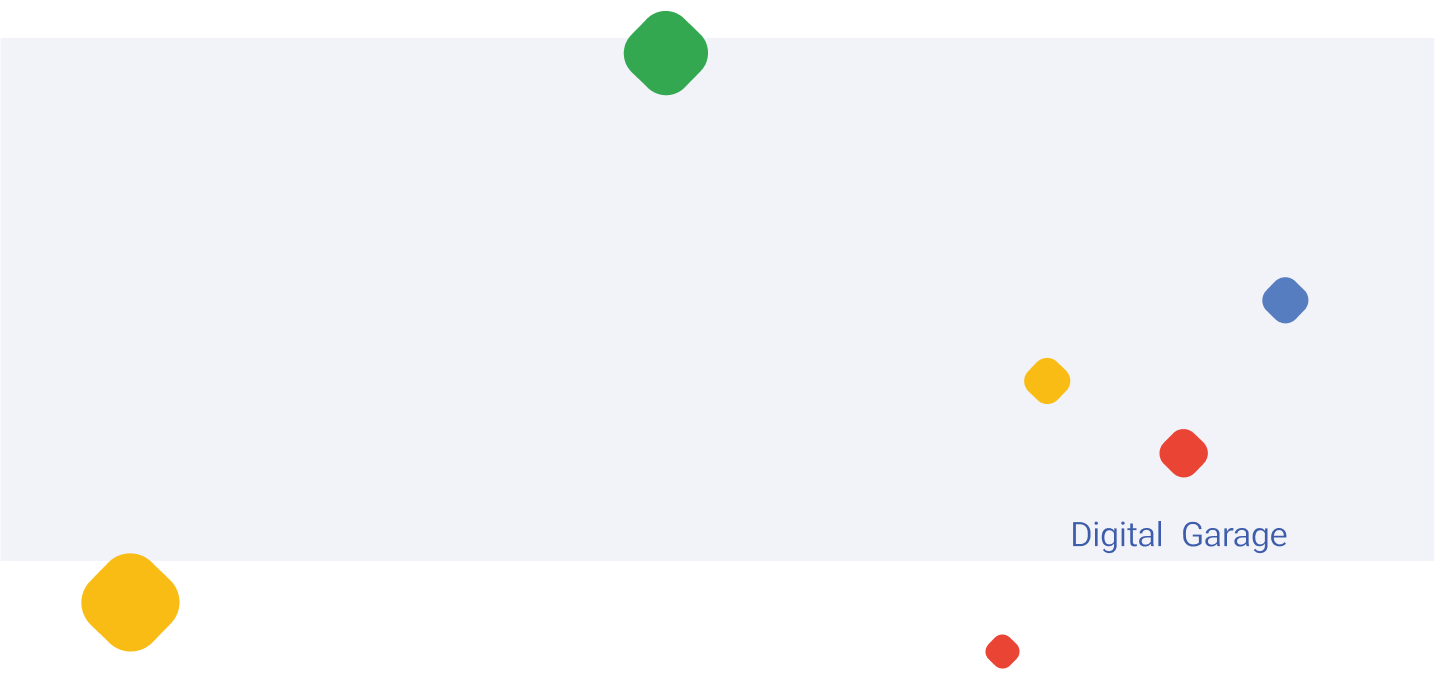
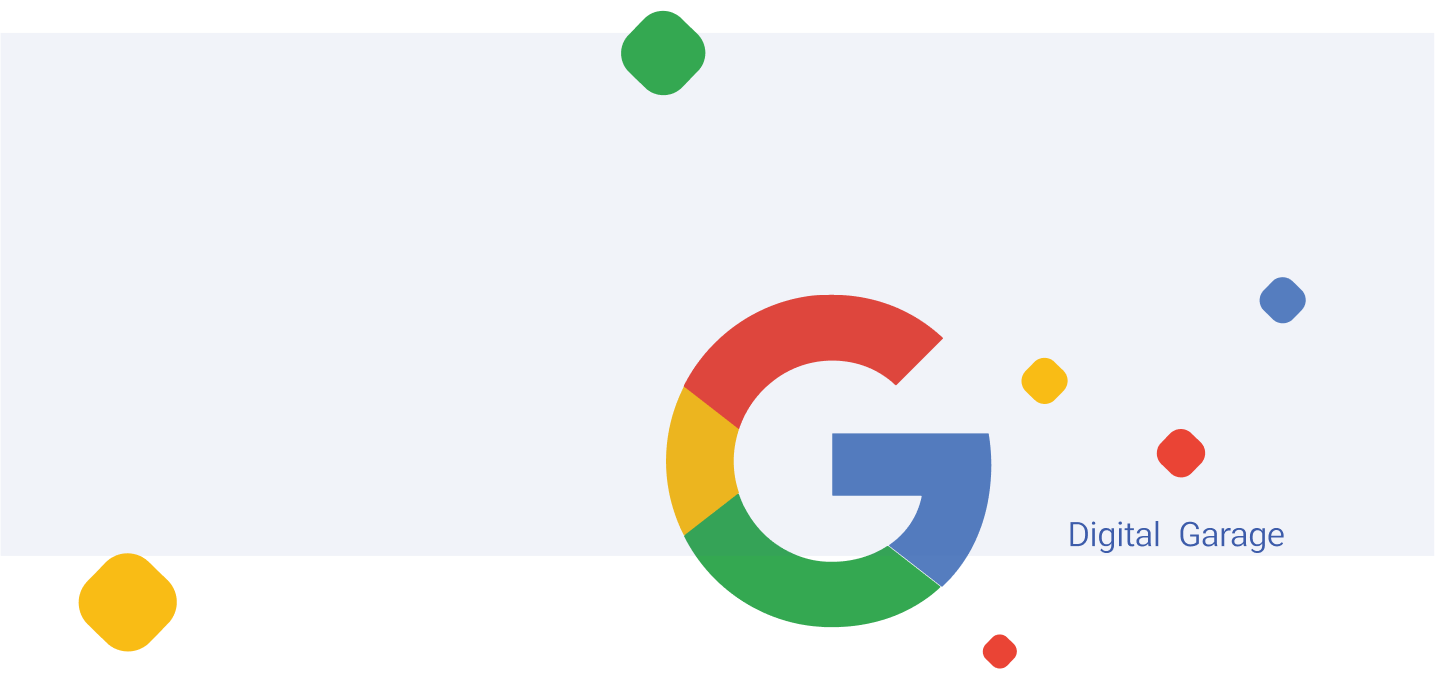
Section 3 n c

diff --git a/src/App.vue b/src/App.vue
@@ -154,6 +154,45 @@ const isMenuShow = ref(false)
         </div>
       </div>
     </section>
+
+    <section data-s-3 class="row position-relative h-100">
+
+      <div class="col-md-6 d-flex flex-column align-items-end justify-content-center p-0">
+
+        <div class="position-relative d-flex justify-content-center">
+          <p>
+            با <span>دوره مبانی دیجیتال مارکتینگ</span> ما بر اصول بازاریابی دیجیتال مسلط شوید. ۲۶ ماژول برای کاوش وجود دارد که همگی توسط مربیان <span>Google</span> ایجاد شدهاند، مملو از تمرینهای عملی و نمونههای واقعی برای کمک به شما برای تبدیل دانش به عمل
+          </p>
+          <div class="position-absolute d-flex justify-content-center align-items-center">
+            <button>
+              اطلاعات بیشتر و ثبت نام
+            </button>
+            <img src="./assets/img/section3_vector1.png" alt="vector">
+          </div>
+        </div>
+
+      </div>
+      <div class="col-md-6 d-flex flex-column justify-content-start p-0">
+        <div class="t_bar d-flex justify-content-center align-items-end">
+          <h3>
+            مدرکتو میده
+          </h3>
+          <h1>
+            گوگل
+          </h1>
+        </div>
+
+        <div class="d_bar d-flex justify-content-center align-items-center">
+          <h3>
+            دیجیتال مارکتینگ
+          </h3>
+          <h3>
+            یه قدم جدی به دنیای
+          </h3>
+        </div>
+      </div>
+      <img src="./assets/img/section3_bg1.png" alt="bg" class="position-absolute p-0">
+    </section>
   </div>
 </template>
 

diff --git a/src/assets/sass/style.sass b/src/assets/sass/style.sass
@@ -316,9 +316,6 @@ section[data-s-2]
 
 /* SECTION 3 */
 section[data-s-3]
-    background-image: url("../img/section3_bg1.png")
-    background-repeat: no-repeat
-    background-size: 100%
     padding-bottom: 350px
     border-bottom: 6px solid rgba(61, 92, 170, 0.15)
 
@@ -330,34 +327,39 @@ section[data-s-3]
             font-weight: 930
             color: $yoz-blue1
             margin-left: 30px
+            white-space: nowrap
 
         > h3
             font-size: 55px
             font-weight: 960
             color: $yoz-blue2
+            white-space: nowrap
 
     .d_bar
         margin-top: 20px
 
         > h3
             font-size: 35px
+            white-space: nowrap
             font-weight: 930
 
         > h3:first-child
             color: $yoz-blue1
+            white-space: nowrap
 
         > h3:last-child
+            white-space: nowrap
             color: $yoz-blue2
             margin-left: 10px
 
-    > div:first-child
+    > div.col-md-6:first-child
 
         > div
             background-image: url("../img/section3_bg2.png")
             background-repeat: no-repeat
             width: 538px
             height: 315px
-            margin-top: 250px
+            margin-bottom: 250px
             margin-right: 20px
 
             > p
@@ -391,11 +393,9 @@ section[data-s-3]
                 > button:hover
                     box-shadow: 5px 5px rgba(122, 193, 112, 0.76)
 
-    img[alt=google]
-        height: 400px
-        width: auto
-        right: -380px
-        bottom: -200px
+    img[alt=bg]
+        width: 100%
+        z-index: -9
 
 /* SECTION 4 */
 section[data-s-4]
